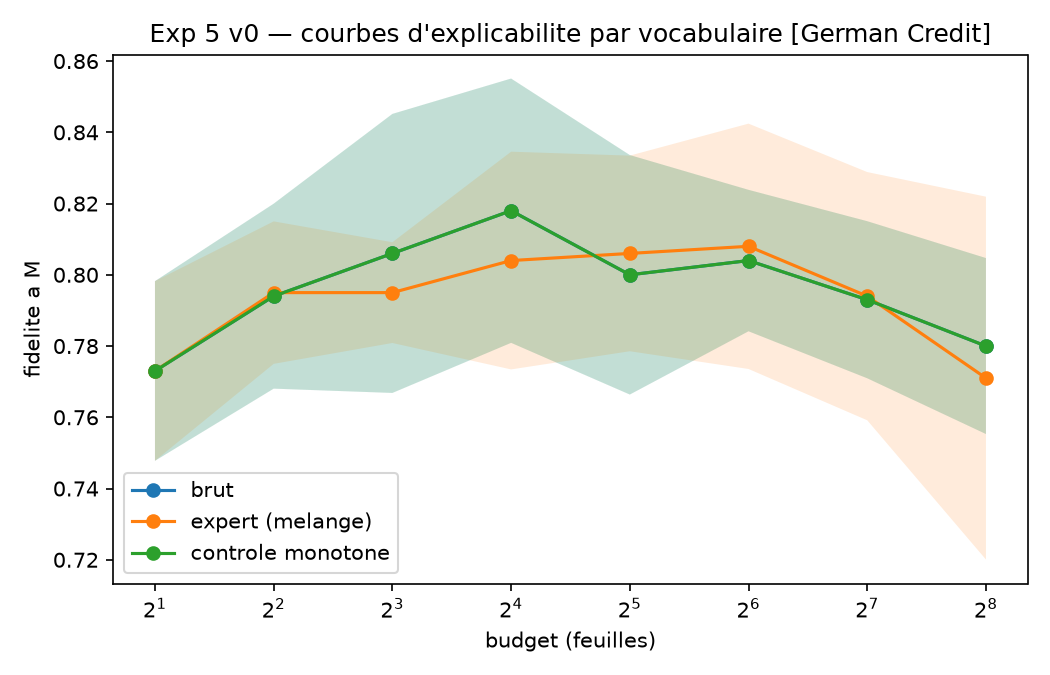
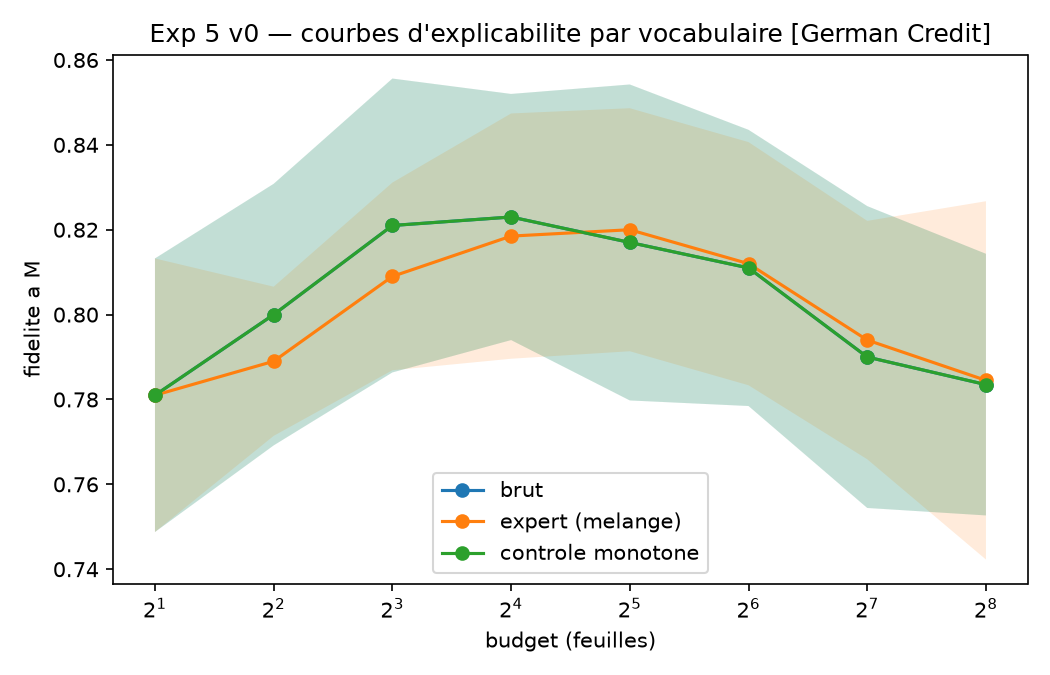
Formal pass complete: 10-seed real-data results with paired statistics
All four real-data runs redone at n=10 seeds with paired t-test and
Wilcoxon signed-rank on the AUC gaps. The paper's central real-data
claim strengthens: AI4I engineer-vs-raw gap +0.046 +/- 0.026 with
t = 5.37, p = 4.5e-4 (Wilcoxon p = 0.002). German Credit stays cleanly
indistinguishable (v0 p = 0.32; v0.1 p = 0.72), and the GBT moderation
result holds (p = 0.56). Monotone control ~0 in all four runs,
bringing Proposition 1 to 11/11 confirmations. Figures regenerated;
BILAN updated with final numbers and the completed from-scratch
reproduction of Exp 1-3.

Claude-Session: https://claude.ai/code/session_01FqM34vazmS7aHCuqKh4bBP

diff --git a/docs/BILAN_DRAPEAU.md b/docs/BILAN_DRAPEAU.md
@@ -21,12 +21,12 @@ REX-LLM reste en pause de recul ; le drapeau se plante sur ce qui est démontré
 
 ### Corpus nouveau — données réelles et régime interactif (cette itération)
 
-| Exp | Résultat | Chiffres clés |
+| Exp | Résultat | Chiffres clés (repasse formelle, n = 10 seeds, tests appariés) |
 |---|---|---|
-| 5 (German Credit, réel) | **Infirmation propre** : pas de dominance du vocabulaire expert — le monde du crédit n'est pas écrit en concepts composés | écart −0.003 ± 0.019 (2 runs, critère pré-enregistré) ; leçon de méthode : normaliser par la fidélité du modèle trivial |
-| 6 (AI4I 2020, réel) | **Première démonstration du désalignement naturel sur données réelles** (terrain physique) ; l'écart dépend de la base interne de M | MLP : +0.045 ± 0.010 (>4σ) ; GBT (axis-aligned par construction) : +0.004 ± 0.023 — la thèse relationnelle observée côté modèle |
+| 5 (German Credit, réel) | **Infirmation propre** : pas de dominance du vocabulaire expert — le monde du crédit n'est pas écrit en concepts composés | v0 : écart −0.006 ± 0.018, t apparié p = 0.32, Wilcoxon p = 0.48 ; v0.1 (GBT + 20k requêtes) : −0.002 ± 0.019, p = 0.72 ; leçon de méthode : normaliser par la fidélité du modèle trivial |
+| 6 (AI4I 2020, réel) | **Première démonstration du désalignement naturel sur données réelles** (terrain physique) ; l'écart dépend de la base interne de M | MLP : **+0.046 ± 0.026, t = 5.37, p = 4.5×10⁻⁴, Wilcoxon p = 0.002** ; GBT (axis-aligned par construction) : −0.005 ± 0.027, p = 0.56 — la thèse relationnelle observée côté modèle |
 | 7 (le graphe qui vit, pré-enregistré) | **15 phrases (0 étiquette) battent 75 000 étiquettes de réentraînement** sur 15 dérives ; zéro dégradation cumulative | graphe 0.990 ± 0.003 vs réentraîné 0.981 ± 0.002 vs fine-tuné 0.854 ± 0.018 vs figé 0.624 ; intégrité région jamais éditée 0.992 → 0.994 ; phrases bruitées ±0.10 : 0.971 ; désaligné θ=1.5 : 0.801 (taxe ~0.19) ; 4 conditions de mort pré-enregistrées, toutes survécues |
-| Prop 1 (invariance monotone) | Confirmée sur **tous** les bancs d'essai, synthétiques et réels — 7 runs sur 7, souvent exactement 0.0000 | quasi-théorème : preuve à rédiger (les arbres à seuils ne dépendent que des ordres) |
+| Prop 1 (invariance monotone) | Confirmée sur **tous** les bancs d'essai, synthétiques et réels — 11 runs sur 11, souvent exactement 0.0000 | quasi-théorème : preuve à rédiger (les arbres à seuils ne dépendent que des ordres) |
 
 ### Infrastructure (conditions du drapeau)
 
@@ -83,8 +83,9 @@ le gradient » (c'est une conjecture, dire conjecture) ; tout chiffre sans table
    traitée avec les mêmes honneurs que les confirmations).
 2. Conversion LaTeX arXiv 6-8 pages (S-57), biblio vérifiée + ajouts nécessaires
    (S-58 ; ajouter : common ground si les fondamentaux entrent en perspective).
-3. Reproduction de zéro d'exp1_solid / exp2 / exp3 pour verrouiller chaque chiffre cité
-   (S-54 — exp1b déjà validée).
+3. ~~Reproduction de zéro d'exp1_solid / exp2 / exp3~~ **FAIT (2026-07-06)** : les trois
+   reproduites de zéro, chiffres identiques à l'article à l'arrondi près (exp1b déjà
+   validée la veille). Chaque chiffre cité est verrouillé.
 4. Relecture par Reda du README et des formulations de claims (S-56).
 
 ## 5. Décisions qui reviennent à Reda (bloquantes pour le drapeau)